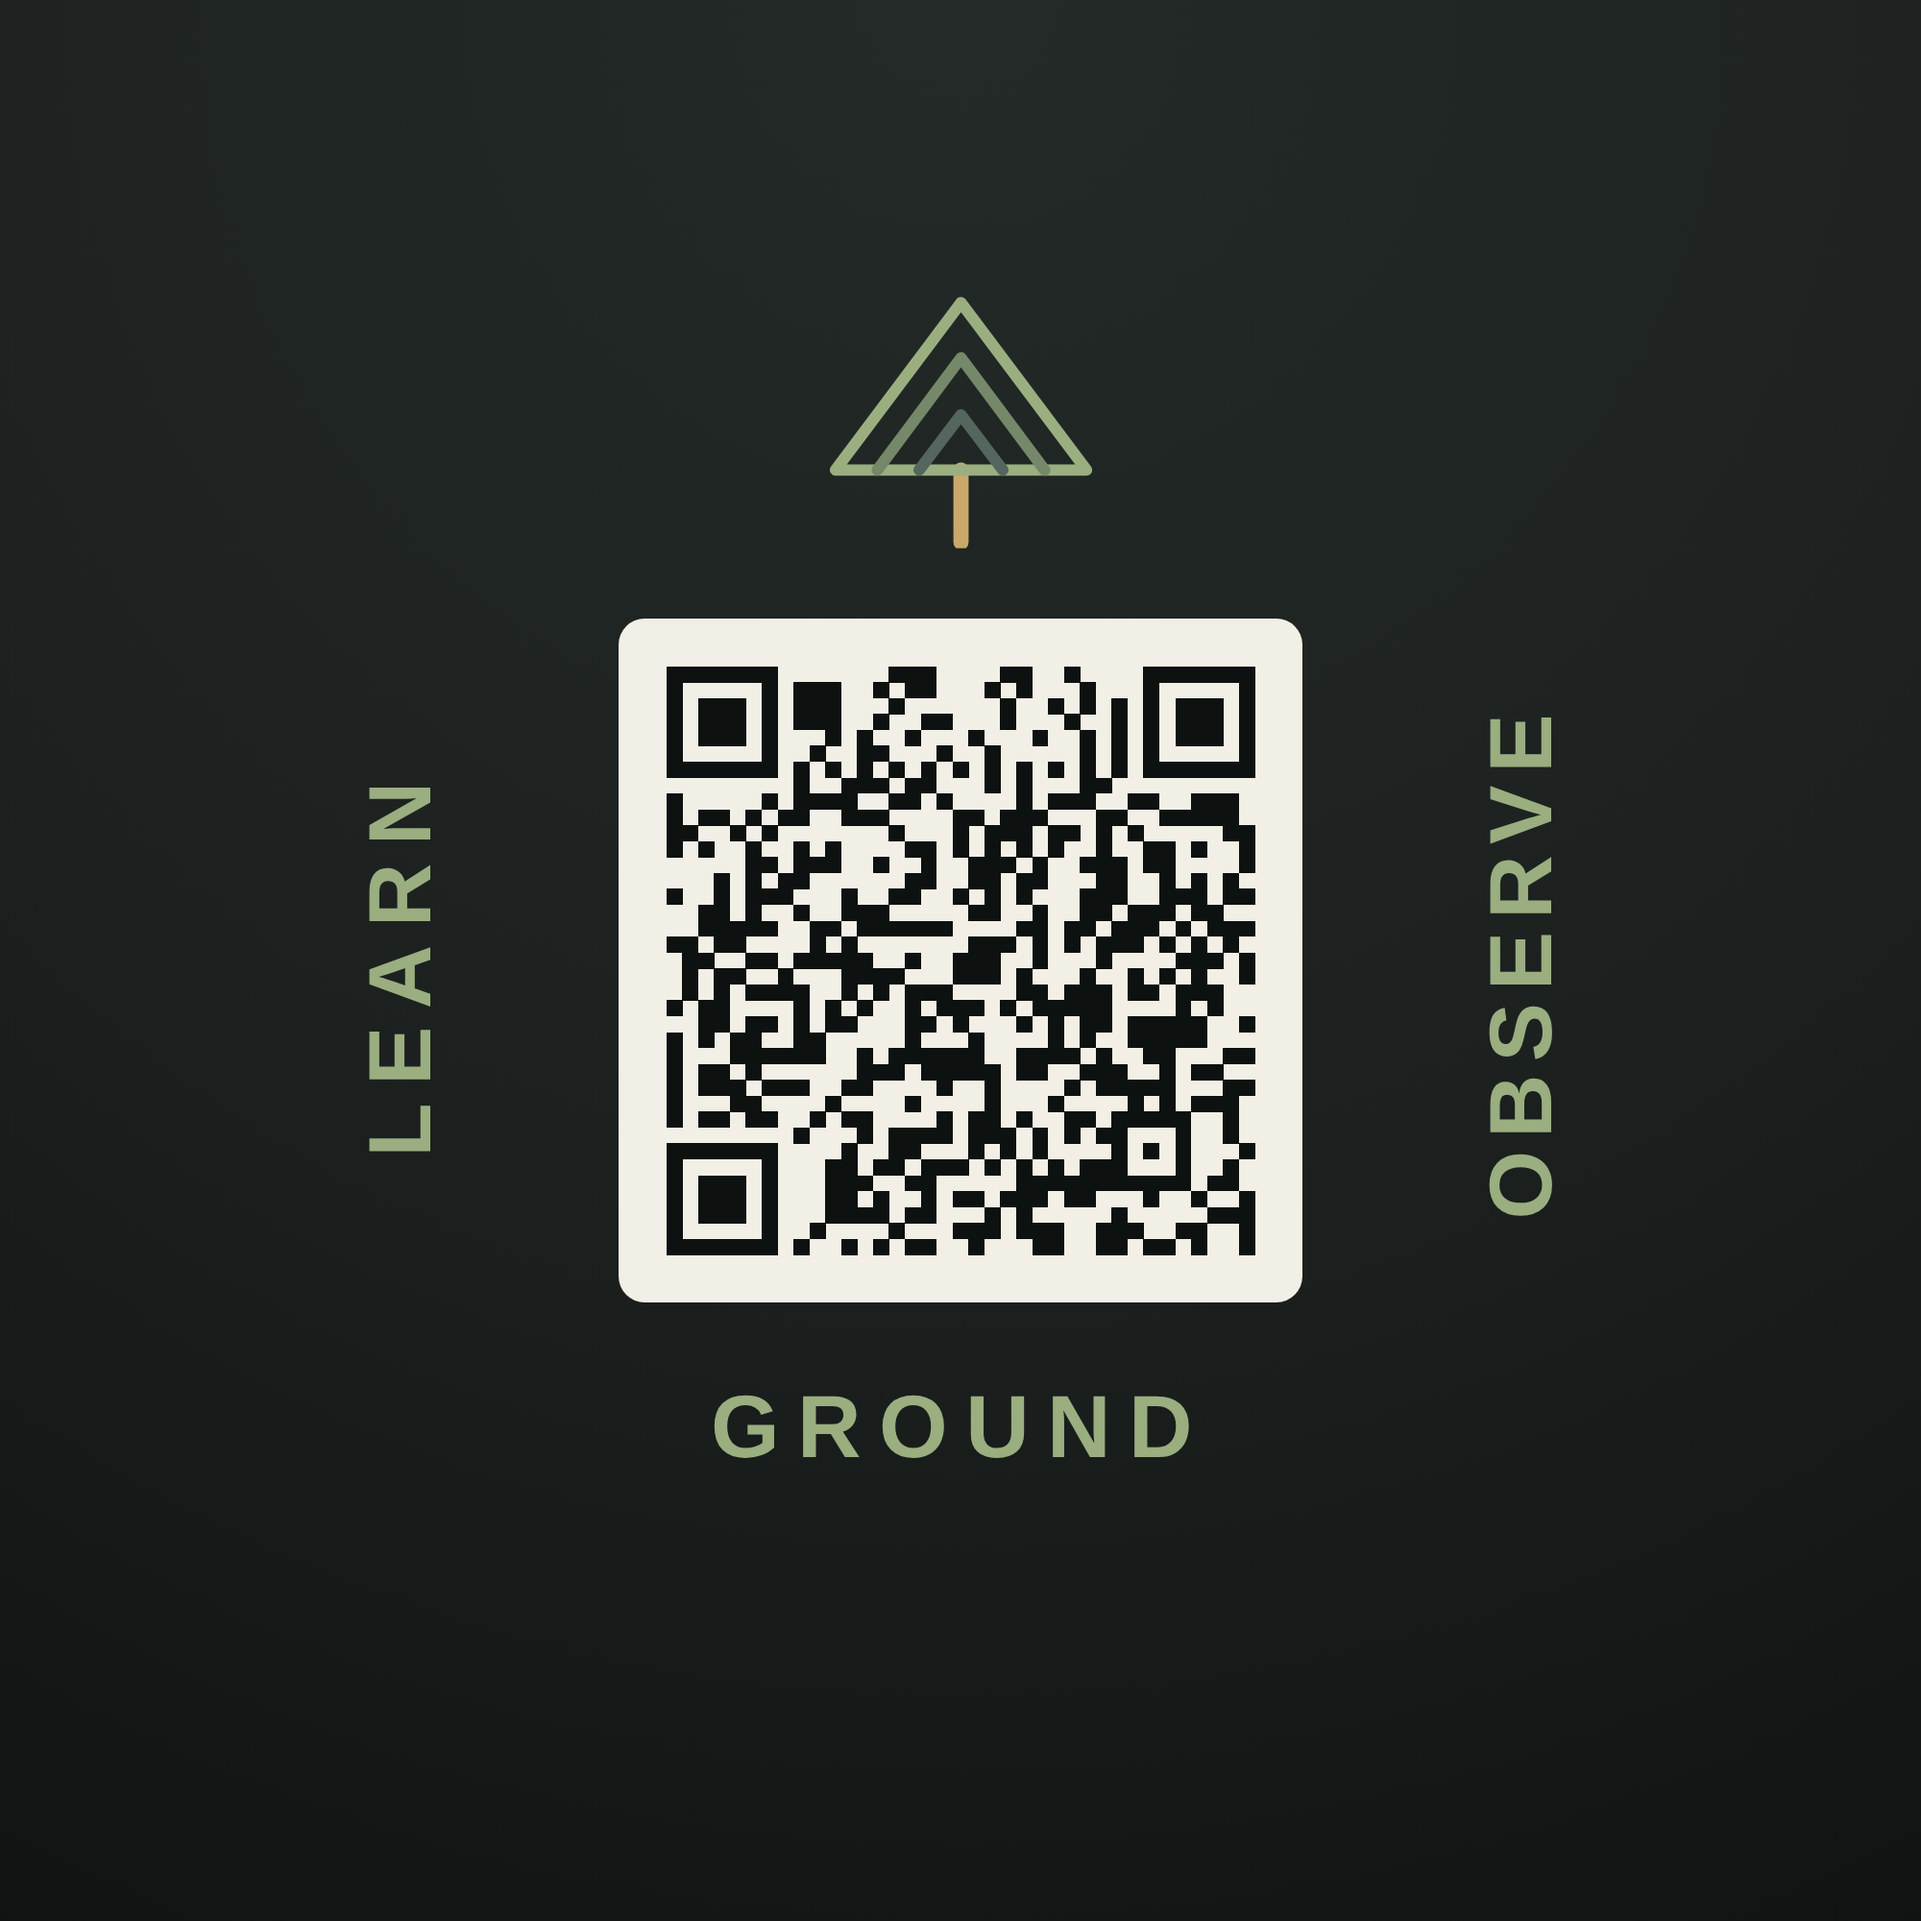
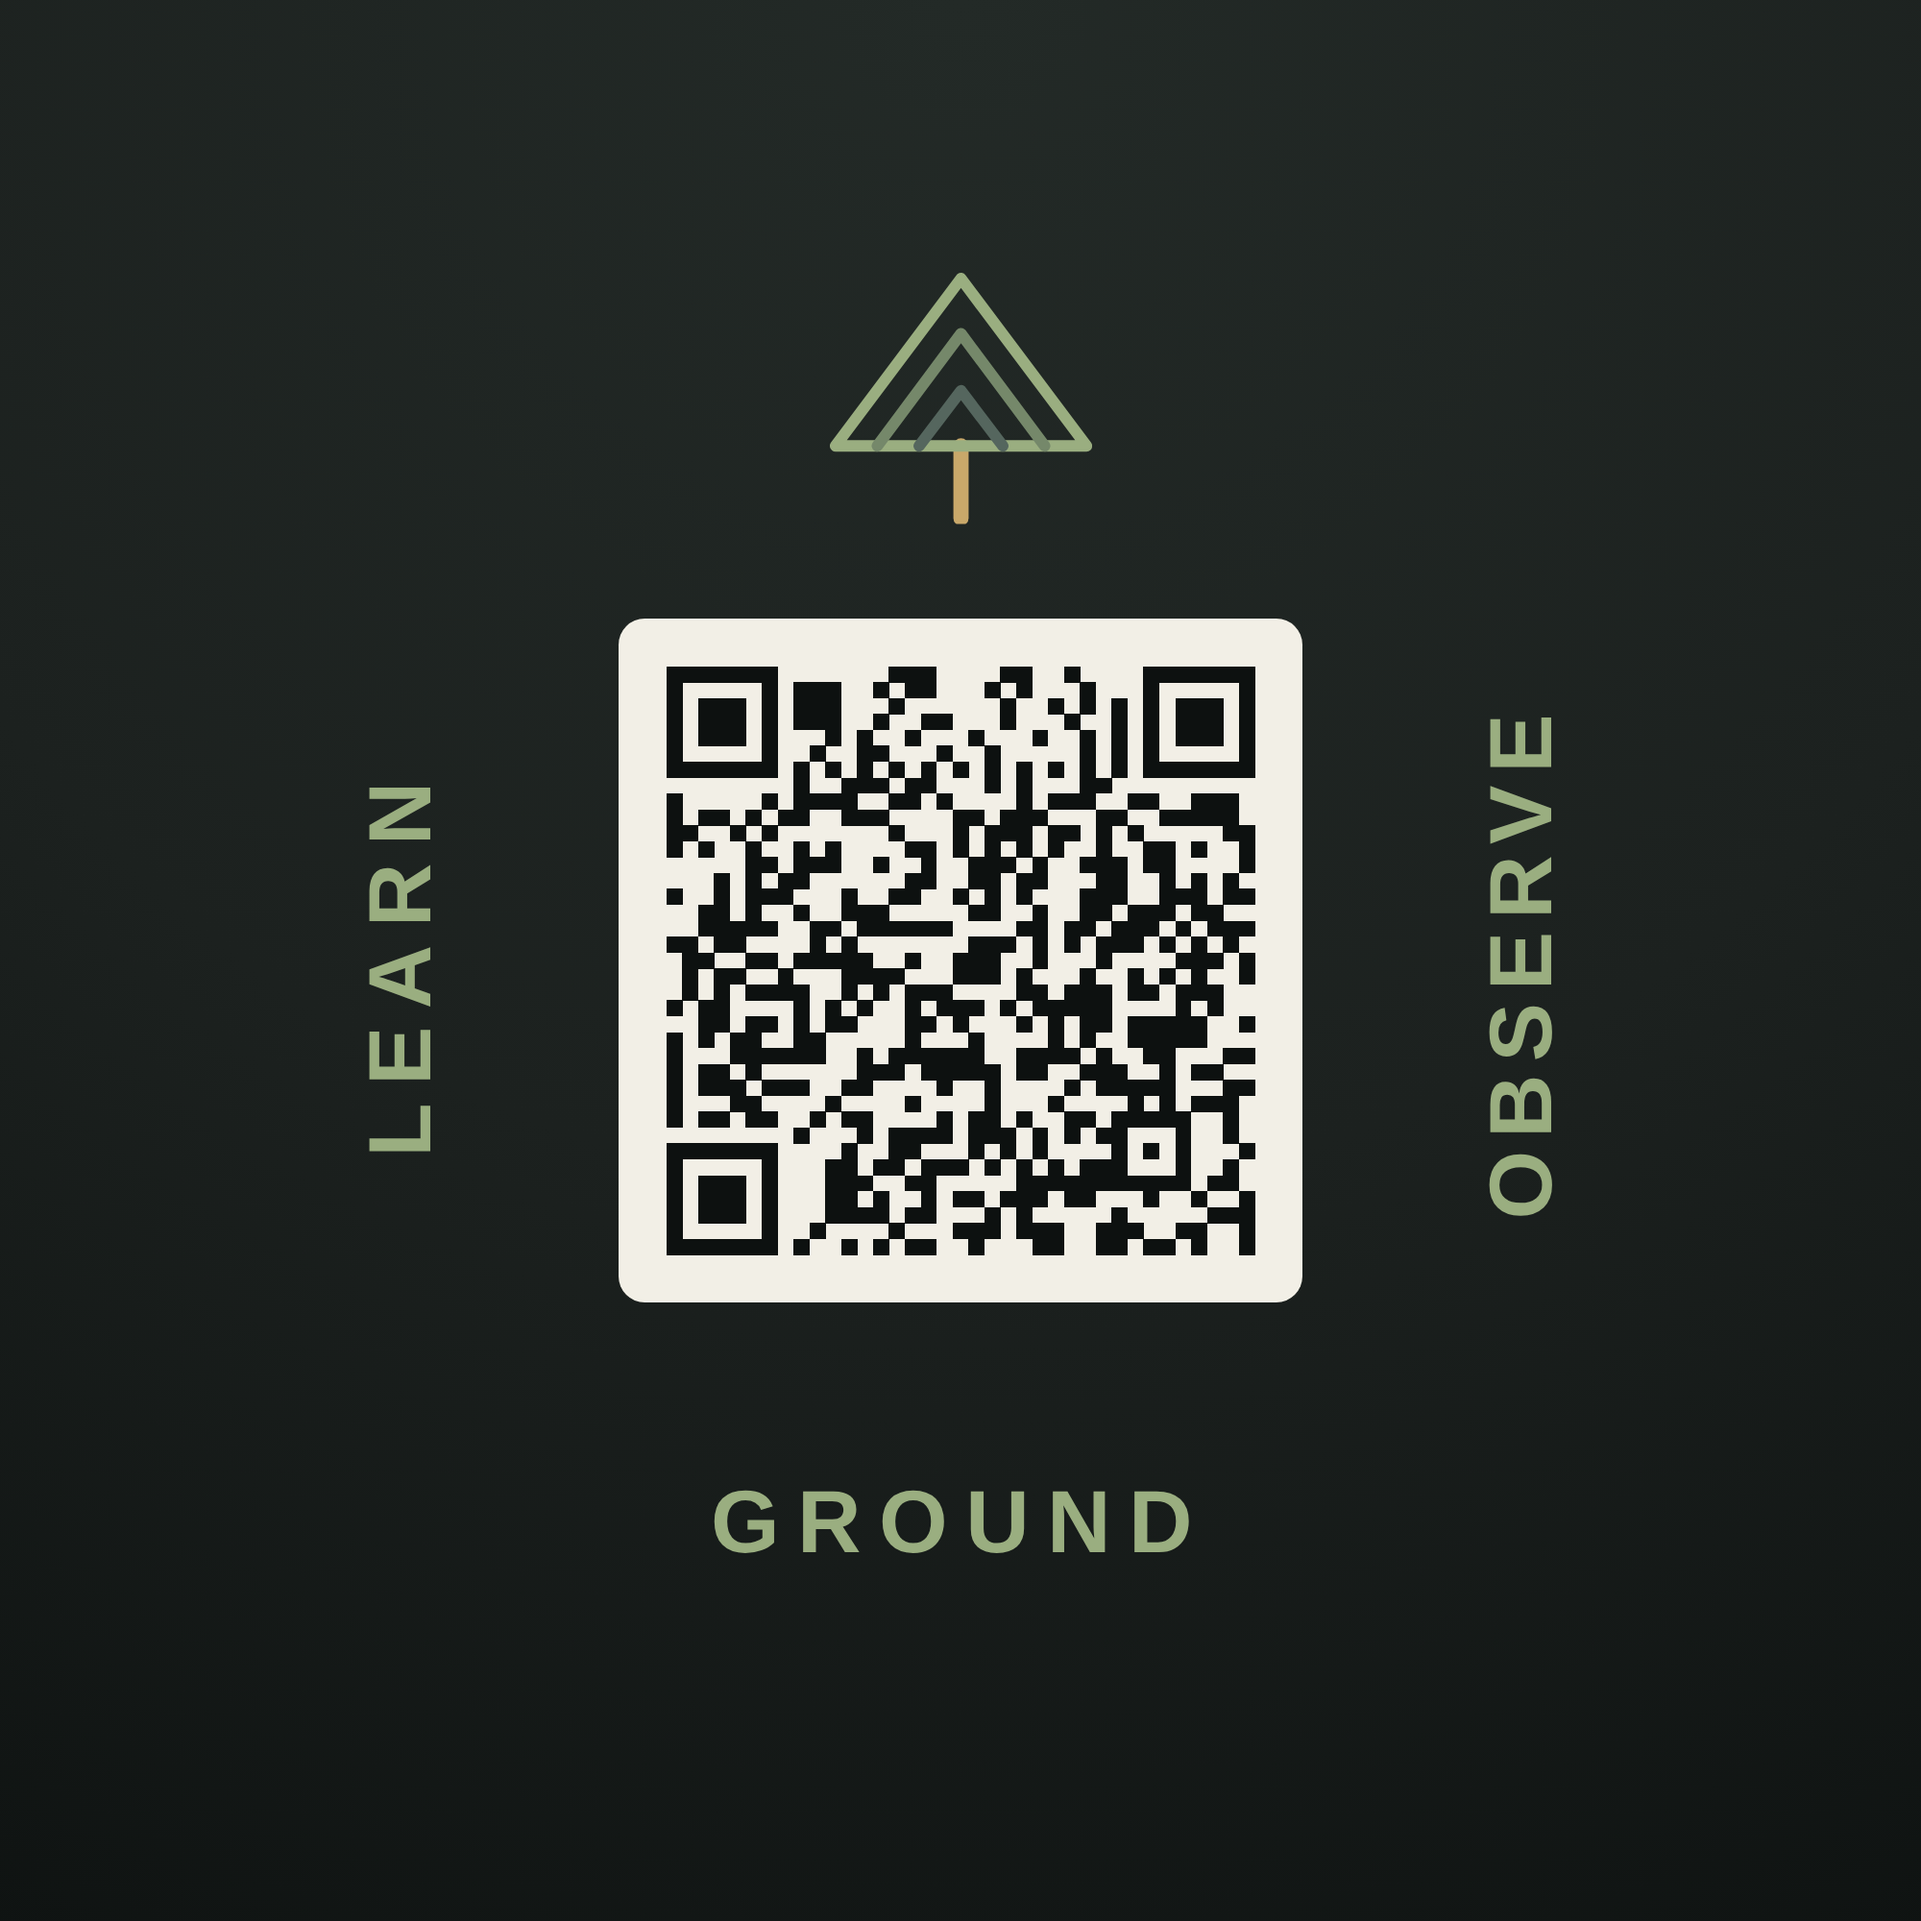
Actually move GROUND into the space the line left
The last commit claimed to rebalance the face and moved GROUND 45px, which is
nothing: it stayed tucked under the tile exactly as it had been when there was
a line beneath it holding it there, and the room the line freed became a void.

The code takes the middle of the disc, which leaves two equal 438px bands above
and below it. The mark is centered in the upper one and GROUND is centered in
the lower one, so both satellites are placed by the same rule instead of one
being placed and the other being left where the deleted element had pinned it.
GROUND moves 94px further down and the mark 24px up.

Nothing about the code moved. Both faces still decode to the campaign URL.

Claude-Session: https://claude.ai/code/session_01JHZ7jsmGP2S3Ku6WDcvSbn

Changed region(s): [[0.372, 0.713, 0.62, 0.806], [0.434, 0.124, 0.589, 0.248]]

diff --git a/design/chip/side-2.html b/design/chip/side-2.html
@@ -47,9 +47,11 @@
      one, and the QR has to sit exactly on the middle. */
   .face > * { position: absolute; }
 
-  /* The mark, small, at the top. Same ink-cropped viewBox as side 1. */
+  /* The mark, small, at the top, centered in the band above the code the same
+     way GROUND is centered in the band below it. Same ink-cropped viewBox as
+     side 1. */
   .mark {
-    top: 340px;
+    top: 316px;
     width: 261px;
     height: 250px;
   }
@@ -107,8 +109,14 @@
     transform: translate(-50%, -50%) rotate(-90deg);
   }
 
+  /* Centered in the channel below the code rather than sitting just under it.
+     The code takes the middle of the disc, which leaves two equal bands of
+     438px, and the mark and this word are each centered in their own. Tucked
+     up against the tile it read as a caption to the code with a void beneath
+     it, which is what the face looked like when the line under it was removed
+     and nothing else moved. */
   .verb.ground {
-    top: 1420px;
+    top: 1514px;
     left: 50%;
     transform: translateX(-50%);
   }
